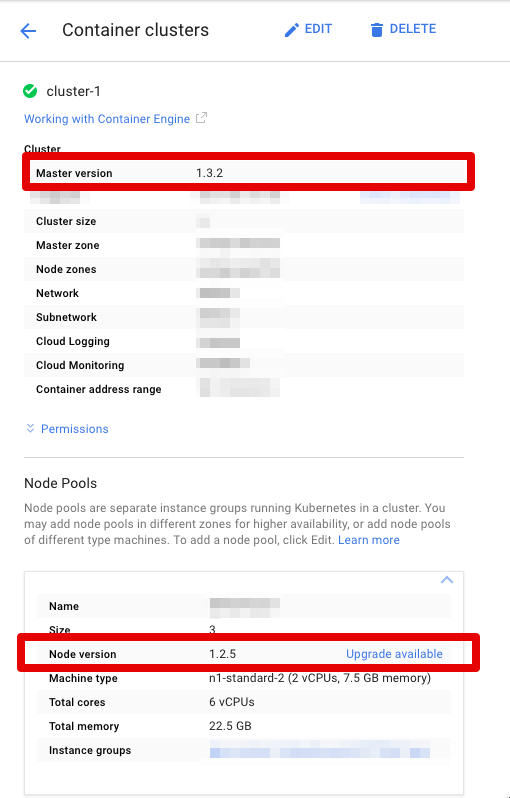
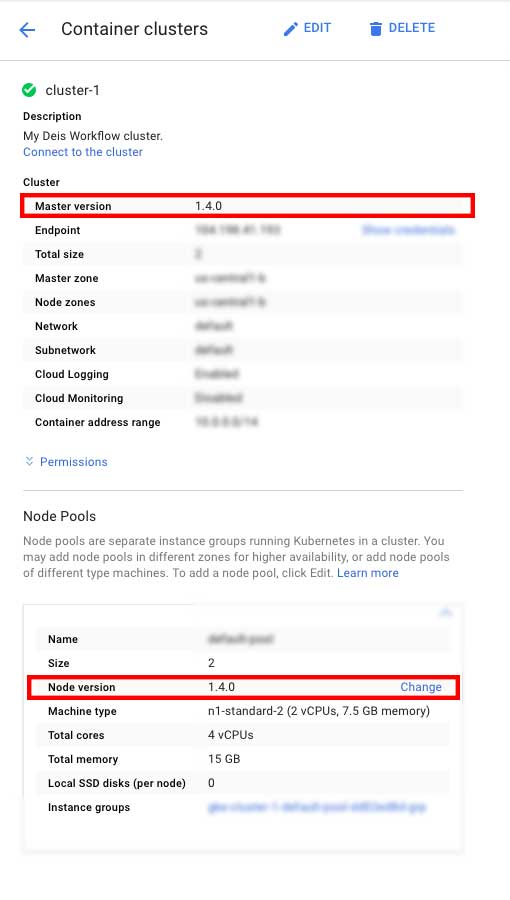
fix(docs): update gke screenshot and text. (#540)

diff --git a/src/quickstart/provider/gke/boot.md b/src/quickstart/provider/gke/boot.md
@@ -64,7 +64,7 @@ Then list your container clusters:
 ```
 $ gcloud container clusters list
 NAME       ZONE           MASTER_VERSION  MASTER_IP        MACHINE_TYPE   NODE_VERSION  NUM_NODES  STATUS
-cluster-1  us-central1-b  1.2.4           104.154.234.246  n1-standard-2  1.2.3 *       2          RUNNING
+cluster-1  us-central1-b  1.4.0           104.154.234.246  n1-standard-2  1.4.0 *       2          RUNNING
 ```
 
 If you haven't configured your default zone, make sure it matches the ZONE for your cluster:
